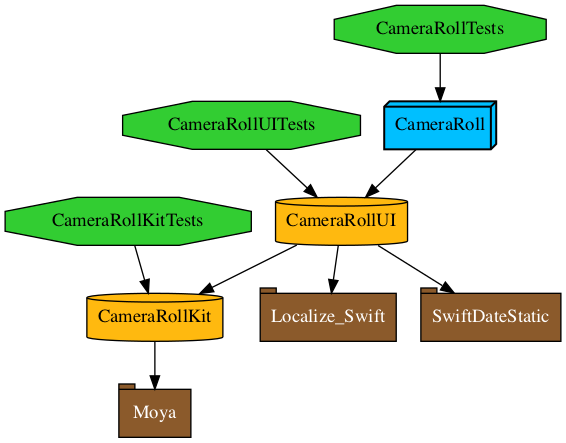
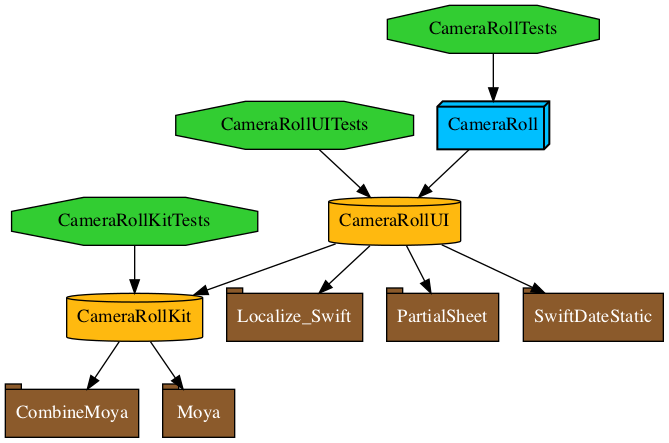
format files

diff --git a/Targets/CameraRollUI/Sources/Extensions/ColorExtensions.swift b/Targets/CameraRollUI/Sources/Extensions/ColorExtensions.swift
@@ -8,38 +8,38 @@
 
 import SwiftUI
 
-public extension Color {
-  static var appGreen: Color {
+extension Color {
+  public static var appGreen: Color {
     Color(UIColor.appGreen)
   }
 
-  static var appGreenLight: Color {
+  public static var appGreenLight: Color {
     Color(UIColor.appGreenLight)
   }
 
-  static var infoTextColor: Color {
+  public static var infoTextColor: Color {
     Color(UIColor.infoTextColor)
   }
 
-  static var errorColor: Color {
+  public static var errorColor: Color {
     Color(UIColor.errorColor)
   }
 }
 
-public extension UIColor {
-  static var appGreen: UIColor {
+extension UIColor {
+  public static var appGreen: UIColor {
     UIColor(red: 36/255, green: 158/255, blue: 107/255, alpha: 1)
   }
 
-  static var appGreenLight: UIColor {
+  public static var appGreenLight: UIColor {
     UIColor.appGreen.withAlphaComponent(0.2)
   }
 
-  static var infoTextColor: UIColor {
+  public static var infoTextColor: UIColor {
     UIColor(red: 0.35, green: 0.35, blue: 0.35, alpha: 1)
   }
 
-  static var errorColor: UIColor {
+  public static var errorColor: UIColor {
     UIColor(red: 0.827, green: 0.11, blue: 0.11, alpha: 1)
   }
 }

diff --git a/Project.swift b/Project.swift
@@ -54,7 +54,7 @@ let kit = Project.makeFrameworkTargets(
   deploymentTarget: deploymentTarget,
   dependencies: [
     .package(product: "Moya"),
-    .package(product: "CombineMoya")
+    .package(product: "CombineMoya"),
   ])
 let uiTarget = Project.makeFrameworkTargets(
   name: "CameraRollUI",
@@ -65,7 +65,7 @@ let uiTarget = Project.makeFrameworkTargets(
     .target(name: "CameraRollKit"),
     .package(product: "SwiftDateStatic"),
     .package(product: "Localize_Swift"),
-    .package(product: "PartialSheet")
+    .package(product: "PartialSheet"),
   ])
 let app = Project.makeAppTargets(
   name: "CameraRoll",
@@ -89,7 +89,8 @@ let project = Project(
     .remote(
       url: "https://github.com/Moya/Moya",
       requirement: .branch("development")),
-    .remote(url: "https://github.com/AndreaMiotto/PartialSheet",
-            requirement: .upToNextMajor(from: "2.0.0"))
+    .remote(
+      url: "https://github.com/AndreaMiotto/PartialSheet",
+      requirement: .upToNextMajor(from: "2.0.0")),
   ],
   targets: app + kit + uiTarget)

diff --git a/Targets/CameraRollKit/Sources/Persons/PersonsService.swift b/Targets/CameraRollKit/Sources/Persons/PersonsService.swift
@@ -5,14 +5,20 @@
 //  Created by Volodymyr Kravchenko on 11.08.2021.
 //
 
+import Combine
+import CombineMoya
 import Foundation
 import Moya
-import CombineMoya
-import Combine
+
+// MARK: - PersonsService
 
 public final class PersonsService {
-  let provider: MoyaProvider<PersonsTarget> = .init()
+
+  // MARK: Lifecycle
+
   public init() {}
+
+  // MARK: Public
 
   public func fetchPersons(limit: Int = 50) -> AnyPublisher<[Person], NetworkError> {
     provider.requestPublisher(.fetch(limit: limit), callbackQueue: .main)
@@ -20,12 +26,15 @@ public final class PersonsService {
       .map { $0.results }
       .mapInternalError()
   }
+
+  // MARK: Internal
+
+  let provider: MoyaProvider<PersonsTarget> = .init()
 }
 
 extension Publisher where Self.Failure == MoyaError {
   func mapInternalError() -> AnyPublisher<Self.Output, NetworkError> {
-    return self
-      .mapError { $0.internal }
+    mapError { $0.internal }
       .eraseToAnyPublisher()
   }
 }

diff --git a/Targets/CameraRollUI/Sources/Home/HomeView.swift b/Targets/CameraRollUI/Sources/Home/HomeView.swift
@@ -5,9 +5,9 @@
 //  Created by Volodymyr Kravchenko on 21.06.2021.
 //
 
-import SwiftUI
-import PartialSheet
 import Combine
+import PartialSheet
+import SwiftUI
 
 // MARK: - HomeView
 
@@ -21,13 +21,15 @@ struct HomeView: View {
     list
       .onAppear { viewModel.action(.fetch) }
       .alert(isPresented: $viewModel.hasError) {
-        Alert(title: Text("Error"),
-              message: viewModel.error != nil ? Text(viewModel.error!.localizedDescription) : nil,
-              dismissButton: .cancel { self.viewModel.error = nil })
+        Alert(
+          title: Text("Error"),
+          message: viewModel.error != nil ? Text(viewModel.error!.localizedDescription) : nil,
+          dismissButton: .cancel { self.viewModel.error = nil })
       }
   }
 
   // MARK: Private
+
   @EnvironmentObject private var partialSheet: PartialSheetManager
 
   @ViewBuilder private var list: some View {

diff --git a/Targets/CameraRollKit/Sources/Persons/PersonsTarget.swift b/Targets/CameraRollKit/Sources/Persons/PersonsTarget.swift
@@ -9,6 +9,8 @@
 import Foundation
 import Moya
 
+// MARK: - PersonsTarget
+
 enum PersonsTarget {
   case fetch(limit: Int)
 
@@ -19,6 +21,8 @@ enum PersonsTarget {
   }
 }
 
+// MARK: TargetType
+
 extension PersonsTarget: TargetType {
   var baseURL: URL { URL(string: "https://randomuser.me/")! }
   var path: String { "api" }
@@ -28,8 +32,9 @@ extension PersonsTarget: TargetType {
     .requestParameters(parameters: ["results": limit], encoding: URLEncoding.queryString)
   }
   var sampleData: Data {
-    guard let url = Bundle.main.url(forResource: "persons", withExtension: "json"),
-          let data = try? Data(contentsOf: url) else { return Data() }
+    guard
+      let url = Bundle.main.url(forResource: "persons", withExtension: "json"),
+      let data = try? Data(contentsOf: url) else { return Data() }
     return data
   }
 }

diff --git a/Targets/CameraRollUI/Sources/Common views/Views.swift b/Targets/CameraRollUI/Sources/Common views/Views.swift
@@ -7,7 +7,7 @@
 
 import SwiftUI
 
-// MARK: - OnboardingViews
+// MARK: - Views
 
 enum Views {
   @ViewBuilder
@@ -23,6 +23,13 @@ enum Views {
       Text(".").font(.poppins(12))
       Spacer()
     }.padding(.bottom, 50).padding(.top, 15)
+  }
+
+  @ViewBuilder
+  static var logo: some View {
+    Image("logo-transparent", bundle: nil)
+      .resizable().scaledToFit()
+      .frame(width: 400, height: 150, alignment: .center)
   }
 
   @ViewBuilder
@@ -75,13 +82,6 @@ enum Views {
       isSecure: isSecure,
       onFocusChange: onFocusChange,
       onTextChange: onTextChange)
-  }
-
-  @ViewBuilder
-  static var logo: some View {
-    Image("logo-transparent", bundle: nil)
-      .resizable().scaledToFit()
-      .frame(width: 400, height: 150, alignment: .center)
   }
 
   @ViewBuilder

diff --git a/Targets/CameraRollKit/Sources/NetworkError.swift b/Targets/CameraRollKit/Sources/NetworkError.swift
@@ -9,6 +9,8 @@
 import Foundation
 import Moya
 
+// MARK: - NetworkError
+
 public enum NetworkError: Error, Equatable {
   case mapping(String)
   case statusCode(String)
@@ -29,8 +31,8 @@ extension MoyaError {
   var `internal`: NetworkError {
     switch self {
     case .imageMapping(let response),
-        .jsonMapping(let response),
-        .stringMapping(let response): return .mapping(response.description)
+         .jsonMapping(let response),
+         .stringMapping(let response): return .mapping(response.description)
     case .requestMapping(let string): return .mapping(string)
     case .objectMapping(let error, _): return .mapping(String(describing: error))
     case .encodableMapping(let error): return .mapping(String(describing: error))

diff --git a/Targets/CameraRollUI/Sources/Home/HomeCoordinator.swift b/Targets/CameraRollUI/Sources/Home/HomeCoordinator.swift
@@ -5,8 +5,8 @@
 //  Created by Volodymyr Kravchenko on 10.08.2021.
 //
 
-import Foundation
 import CameraRollKit
+import Foundation
 
 // MARK: - HomeScene
 
@@ -23,7 +23,7 @@ class HomeCoordinator: Coordinator {
 
   init(parent: TabBarCoordinator) {
     self.parent = parent
-    self.imageService = PersonsService()
+    imageService = PersonsService()
     homeViewModel = HomeViewModel(coordinator: self, service: imageService)
   }
 

diff --git a/Targets/CameraRollUI/Sources/Home/HomeViewModel.swift b/Targets/CameraRollUI/Sources/Home/HomeViewModel.swift
@@ -5,9 +5,9 @@
 //  Created by Volodymyr Kravchenko on 11.08.2021.
 //
 
-import Foundation
 import CameraRollKit
 import Combine
+import Foundation
 
 // MARK: - HomeTab
 
@@ -41,6 +41,7 @@ class HomeViewModel: ViewModel {
   @Published var tab = HomeTab.random
   @Published var persons: [Person] = []
   @Published var hasError: Bool = false
+
   @Published var error: NetworkError? {
     didSet {
       if let error = error {

diff --git a/Derived/Sources/Assets+CameraRoll.swift b/Derived/Sources/Assets+CameraRoll.swift
@@ -18,6 +18,7 @@
 // swiftlint:disable identifier_name line_length nesting type_body_length type_name
 public enum CameraRollAsset {
   public static let brand = CameraRollImages(name: "brand")
+  public static let logoTransparent = CameraRollImages(name: "logo-transparent")
   public static let logo = CameraRollImages(name: "logo")
   public static let search = CameraRollImages(name: "search")
 }

diff --git a/Targets/CameraRollUI/Sources/TabBar/TabBarCoordinatorView.swift b/Targets/CameraRollUI/Sources/TabBar/TabBarCoordinatorView.swift
@@ -9,8 +9,6 @@ import SwiftUI
 
 struct TabBarCoordinatorView: View {
 
-  // MARK: Internal
-
   @ObservedObject var coordinator: TabBarCoordinator
 
   var body: some View {

diff --git a/Targets/CameraRoll/Sources/App/CameraRollApp.swift b/Targets/CameraRoll/Sources/App/CameraRollApp.swift
@@ -6,8 +6,8 @@
 //
 
 import CameraRollUI
-import SwiftUI
 import PartialSheet
+import SwiftUI
 
 // MARK: - CameraRollApp
 
